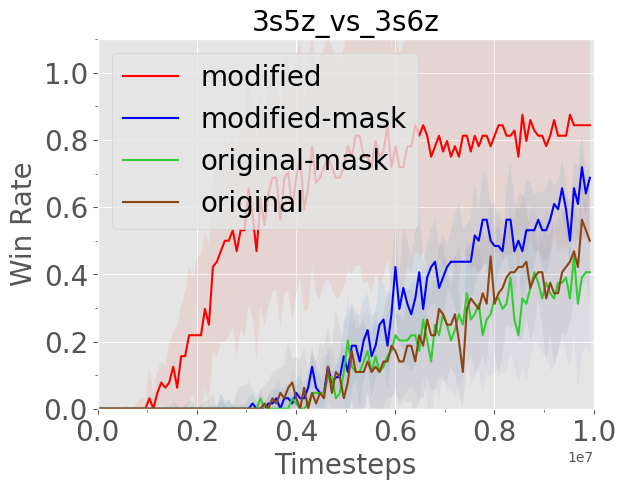
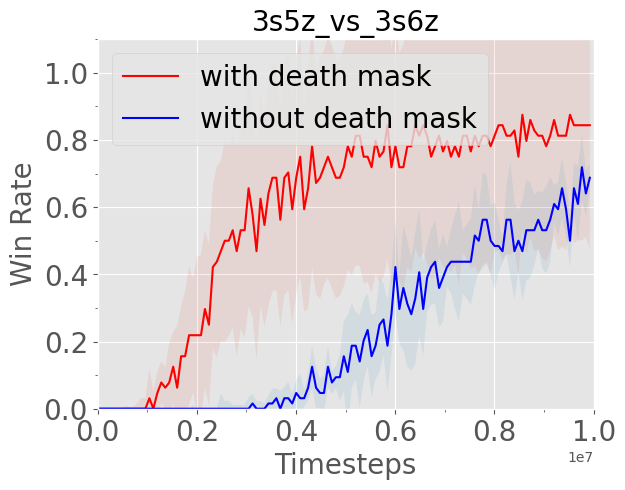
add agent id for smac

diff --git a/onpolicy/scripts/plot/plot_mpe.py b/onpolicy/scripts/plot/plot_mpe.py
@@ -18,13 +18,12 @@ plt.style.use('ggplot')
 
 map_names = ['spread','speaker_listener','reference']
 
-
 for map_name in map_names:
     plt.figure()
     ###################################PPO###################################
     exp_names = ['mappo', 'ippo'] 
     label_names = ["MAPPO", "IPPO"]
-    color_names = ['red','blue']
+    color_names = ['red','limegreen']
 
     save_dir = './mpe/'
     if not os.path.exists(save_dir):
@@ -43,20 +42,11 @@ for map_name in map_names:
         all_step = np.array(df[key_step])
         all_win_rate = np.array(df[key_win_rate])
 
-        print("original shape is ")
-        print(all_step.shape)
-        print(all_win_rate.shape)
-
         df_final = df[key_cols].dropna()
         step = df_final[key_step]
         win_rate = df_final[key_win_rate]
 
-        print("drop nan shape is")
-        print(np.array(step).shape)
-        print(np.array(win_rate).shape)
-
         max_step = step.max()['Step']
-        print("max step is {}".format(max_step))
 
         if max_step < 2.5e6:
             max_step = 2e6
@@ -65,13 +55,12 @@ for map_name in map_names:
         else:
             max_step = 20e6
 
-        print("final step is {}".format(max_step))
         max_steps.append(max_step)
 
         df_final = df_final.loc[df_final['Step'] <= max_step] 
 
-        x_step = np.array(df_final[key_step]).squeeze(-1)
-        y_seed = np.array(df_final[key_win_rate])
+        x_step = np.array(df_final[key_step]).squeeze(-1)[::2]
+        y_seed = np.array(df_final[key_win_rate])[::2]
 
         mean_seed = np.mean(y_seed, axis=1)
         std_seed = np.std(y_seed, axis=1)
@@ -82,92 +71,82 @@ for map_name in map_names:
             color=color_name,
             alpha=0.1)
 
-    print("########################QMIX##########################")
-    exp_name = 'maddpg'
-    label_name = "MADDPG"
-    color_name = 'saddlebrown'
-    print(exp_name)
-    data_dir =  './mpe/' + map_name + '/' + map_name + '_' + exp_name + '.csv'
+    print("########################MADDPG##########################")
+    exp_names = ['maddpg', 'qmix']
+    label_names = ["MADDPG", "QMix"]
+    color_names = ['blue','saddlebrown']
 
-    df = pandas.read_csv(data_dir)
+    for exp_name, label_name, color_name in zip(exp_names, label_names, color_names):
+        data_dir =  './mpe/' + map_name + '/' + map_name + '_' + exp_name + '.csv'
 
-    key_cols = [c for c in df.columns if 'MIN' not in c and 'MAX' not in c]
-    key_step = [n for n in key_cols if n == 'Step']
-    key_win_rate = [n for n in key_cols if n != 'Step']
+        df = pandas.read_csv(data_dir)
 
+        key_cols = [c for c in df.columns if 'MIN' not in c and 'MAX' not in c]
+        key_step = [n for n in key_cols if n == 'Step']
+        key_win_rate = [n for n in key_cols if n != 'Step']
 
-    one_run_max_step = []
-    qmix_x_step = []
-    qmix_y_seed = []
-    for k in key_win_rate:
-        print("one run original shape is ")
-        print(np.array(df[k]).shape)
+        one_run_max_step = []
+        qmix_x_step = []
+        qmix_y_seed = []
+        for k in key_win_rate:
 
-        df_final = df[[k, 'Step']].dropna()
-        step = df_final[key_step]
-        win_rate = df_final[k]
-        
-        print("one run drop nan shape is")
-        print(np.array(step).shape)
-        print(np.array(win_rate).shape)
+            df_final = df[[k, 'Step']].dropna()
+            step = df_final[key_step]
+            win_rate = df_final[k]
 
-        max_step = step.max()['Step']
-        print("one run max step is {}".format(max_step))
+            max_step = step.max()['Step']
 
-        if max_step < 2.5e6:
-            max_step = 2e6
-        elif max_step < 4e6:
-            max_step = 3e6
-        else:
-            max_step = 20e6
-        
-        one_run_max_step.append(max_step)
-        print("final step is {}".format(max_step))
+            if max_step < 2.5e6:
+                max_step = 2e6
+            elif max_step < 4e6:
+                max_step = 3e6
+            else:
+                max_step = 20e6
+            
+            one_run_max_step.append(max_step)
+            df_final = df_final.loc[df_final['Step'] <= max_step] 
+            qmix_x_step.append(np.array(df_final[key_step]).squeeze(-1))
+            qmix_y_seed.append(np.array(df_final[k]))
+        # pick max qmix step
+        qmix_max_step = np.min(one_run_max_step)
+        max_steps.append(qmix_max_step)
 
-        df_final = df_final.loc[df_final['Step'] <= max_step] 
-        qmix_x_step.append(np.array(df_final[key_step]).squeeze(-1))
-        qmix_y_seed.append(np.array(df_final[k]))
-        print("data shape is {}".format(np.array(df_final[k]).shape))
+        # adapt sample frequency
+        sample_qmix_s_step = []
+        sample_qmix_y_seed = []
+        final_max_length = []
+        for x, y in zip(qmix_x_step, qmix_y_seed):
+            eval_interval = x[10] - x[9]
+            print(eval_interval)
+            if eval_interval == 1000:
+                final_max_length.append(len(x[::32]))
+                sample_qmix_s_step.append(x[::32])
+                sample_qmix_y_seed.append(y[::32])
+            elif eval_interval == 3200:
+                final_max_length.append(len(x[::10]))
+                sample_qmix_s_step.append(x[::10])
+                sample_qmix_y_seed.append(y[::10])
 
-    # pick max qmix step
-    qmix_max_step = np.min(one_run_max_step)
-    max_steps.append(qmix_max_step)
+        # truncate numpy
+        max_common_length = np.min(final_max_length)
+        print("max common qmix length is {}".format(max_common_length))
+        final_qmix_x_step = []
+        final_qmix_y_seed = []
+        for x, y in zip(sample_qmix_s_step, sample_qmix_y_seed):
+            final_qmix_x_step.append(x[:max_common_length])
+            final_qmix_y_seed.append(y[:max_common_length])
 
-    # adapt sample frequency
-    sample_qmix_s_step = []
-    sample_qmix_y_seed = []
-    final_max_length = []
-    for x, y in zip(qmix_x_step, qmix_y_seed):
-        eval_interval = x[1] - x[0]
-        if eval_interval == 1000:
-            final_max_length.append(len(x[::16]))
-            sample_qmix_s_step.append(x[::16])
-            sample_qmix_y_seed.append(y[::16])
-        elif eval_interval == 3200:
-            final_max_length.append(len(x[::5]))
-            sample_qmix_s_step.append(x[::5])
-            sample_qmix_y_seed.append(y[::5])
+        x_step = np.mean(final_qmix_x_step, axis=0)
+        y_seed = np.array(final_qmix_y_seed)
 
-    # truncate numpy
-    max_common_length = np.min(final_max_length)
-    print("max common qmix length is {}".format(max_common_length))
-    final_qmix_x_step = []
-    final_qmix_y_seed = []
-    for x, y in zip(sample_qmix_s_step, sample_qmix_y_seed):
-        final_qmix_x_step.append(x[:max_common_length])
-        final_qmix_y_seed.append(y[:max_common_length])
-
-    x_step = np.mean(final_qmix_x_step, axis=0)
-    y_seed = np.array(final_qmix_y_seed)
-
-    mean_seed = np.mean(y_seed, axis=0)
-    std_seed = np.std(y_seed, axis=0)
-    plt.plot(x_step, mean_seed, label=label_name, color=color_name)
-    plt.fill_between(x_step,
-        mean_seed - std_seed,
-        mean_seed + std_seed,
-        color=color_name,
-        alpha=0.1)
+        mean_seed = np.mean(y_seed, axis=0)
+        std_seed = np.std(y_seed, axis=0)
+        plt.plot(x_step, mean_seed, label=label_name, color=color_name)
+        plt.fill_between(x_step,
+            mean_seed - std_seed,
+            mean_seed + std_seed,
+            color=color_name,
+            alpha=0.1)
     
     plt.tick_params(axis='both',which='major') 
     final_max_step = np.min(max_steps)
@@ -183,7 +162,7 @@ for map_name in map_names:
         x_minor_Locator = MultipleLocator(int(final_max_step/8)) 
         y_major_locator = MultipleLocator(20)
         y_minor_Locator = MultipleLocator(5)
-        plt.ylim(-80, -5)
+        plt.ylim(-100, -5)
     else:
         x_major_locator = MultipleLocator(int(final_max_step/4))
         x_minor_Locator = MultipleLocator(int(final_max_step/4)) 

diff --git a/onpolicy/scripts/plot/plot_winrate.py b/onpolicy/scripts/plot/plot_winrate.py
@@ -90,7 +90,7 @@ for map_name in map_names:
             alpha=0.1)
     
     exp_name = 'final_qmix'
-    label_name = "QMIX"
+    label_name = "QMix"
     color_name = 'saddlebrown'
     data_dir =  './' + map_name + '/' + map_name + '_' + exp_name + '.csv'
 
@@ -131,9 +131,6 @@ for map_name in map_names:
         else:
             max_step = 10e6
 
-        # if max_step == 2e6 and map_name in ["6h_vs_8z","MMM"]:
-        #     continue
-        
         one_run_max_step.append(max_step)
         # print("final step is {}".format(max_step))
 
@@ -154,9 +151,10 @@ for map_name in map_names:
         eval_interval = x[10] - x[9]
         if eval_interval - 10000 < 5000: # eval_interval = 10000
             print("warning: better not to use mixed data, try to one eval_interval")
-            print(map_name)
-            print(eval_interval)
-            continue
+            if map_name not in ["25m","27m_vs_30m","bane_vs_bane"]:
+                print(map_name)
+                print(eval_interval)
+                continue
             final_max_length.append(len(x[::8]))
             sample_qmix_s_step.append(x[::8])
             sample_qmix_y_seed.append(y[::8])
@@ -213,10 +211,10 @@ for map_name in map_names:
     #ax.xaxis.grid(True, which='minor')
     plt.xlim(0, final_max_step)
     plt.ylim([0, 1.1])
-    plt.xticks(fontsize=15)
-    plt.yticks(fontsize=15)
-    plt.xlabel('Timesteps', fontsize=15)
-    plt.ylabel('Win Rate', fontsize=15)
-    plt.legend(loc='best', numpoints=1, fancybox=True, fontsize=15)
-
+    plt.xticks(fontsize=20)
+    plt.yticks(fontsize=20)
+    plt.xlabel('Timesteps', fontsize=20)
+    plt.ylabel('Win Rate', fontsize=20)
+    plt.legend(loc='best', numpoints=1, fancybox=True, fontsize=20)
+    plt.title(map_name,fontsize=20)
     plt.savefig(save_dir + map_name + "_win_rate.png", bbox_inches="tight")

diff --git a/onpolicy/scripts/plot/plot_global_state_2figures.py b/onpolicy/scripts/plot/plot_global_state_2figures.py
@@ -23,8 +23,9 @@ map_names = ['MMM2','6h_vs_8z','corridor','10m_vs_11m','3s5z_vs_3s6z','8m_vs_9m'
 for map_name in map_names:
     plt.figure()
     ###################################PPO###################################
-    exp_names = ['final_mappo', 'mappo_nomustalive', 'final_mappo_original', 'mappo_original_mustalive'] 
-    label_names = ["modified", "modified-mask", "original-mask", "original"]
+    #exp_names = ['final_mappo', 'mappo_nomustalive', 'final_mappo_original', 'mappo_original_mustalive'] 
+    exp_names = ['final_mappo', 'mappo_nomustalive']
+    label_names = ["with death mask", "without death mask"]
     color_names = ['red','blue','limegreen','saddlebrown']
 
     save_dir = './global_state/'
@@ -119,7 +120,7 @@ for map_name in map_names:
     plt.figure()
     ###################################PPO###################################
     exp_names = ['final_mappo', 'mappo_original_mustalive', 'mappo_catobs'] 
-    label_names = ["modified", "original", "concat"]
+    label_names = ["agent-specific", "original", "concated"]
     color_names = ['red','blue','limegreen']
 
     save_dir = './global_state/'

diff --git a/onpolicy/envs/starcraft2/StarCraft2_Env.py b/onpolicy/envs/starcraft2/StarCraft2_Env.py
@@ -86,6 +86,7 @@ class StarCraft2Env(MultiAgentEnv):
         state_terrain_height=False,
         state_last_action=True,
         state_timestep_number=False,
+        state_agent_id=True,
         reward_sparse=False,
         reward_only_positive=True,
         reward_death_value=10,
@@ -235,6 +236,7 @@ class StarCraft2Env(MultiAgentEnv):
         self.state_terrain_height = state_terrain_height
         self.state_last_action = state_last_action
         self.state_timestep_number = state_timestep_number
+        self.state_agent_id = state_agent_id
         if self.obs_all_health:
             self.obs_own_health = True
         self.n_obs_pathing = 8
@@ -1499,7 +1501,7 @@ class StarCraft2Env(MultiAgentEnv):
                                 own_feats.flatten()))
 
         # Agent id features
-        if self.obs_agent_id:
+        if self.state_agent_id:
             agent_id_feats[agent_id] = 1.
             state = np.append(state, agent_id_feats.flatten())
 

diff --git a/onpolicy/scripts/plot/cal_winrate.py b/onpolicy/scripts/plot/cal_winrate.py
@@ -189,6 +189,12 @@ for map_name in map_names:
 
     final_max_step = np.min(max_steps)
     print("final max step is {}".format(final_max_step))
+    if map_name in ["5m_vs_6m"]:
+        final_max_step = 25e6
+    
+    if map_name == "27m_vs_30m":
+        final_max_step = 7e6
+
     all_final_max_step.append(final_max_step)
 
 #################################CAL#####################################
@@ -197,6 +203,7 @@ results = []
 for map_name, final_max_step in zip(map_names, all_final_max_step):
     print("########################MAP##########################")
     print(map_name)
+    print(final_max_step)
     ###################################PPO###################################
     exp_names = ['final_mappo', 'final_ippo']
 

diff --git a/onpolicy/scripts/plot/plot_mini_batch_size.py b/onpolicy/scripts/plot/plot_mini_batch_size.py
@@ -22,7 +22,7 @@ for map_name in map_names:
     plt.figure()
     ###################################PPO###################################
     exp_names = ['mappo_mini1', 'mappo_mini2', 'mappo_mini4'] 
-    label_names = ["1.0 mini-batch", "0.5 mini-batch", "0.25 mini-batch"]
+    label_names = ["1 mini-batch", "2 mini-batches", "4 mini-batches"]
     color_names = ['red','blue','limegreen']
 
     save_dir = './mini_batch_size/'

diff --git a/onpolicy/scripts/plot/plot_mpe_mini_batch_size.py b/onpolicy/scripts/plot/plot_mpe_mini_batch_size.py
@@ -22,7 +22,7 @@ for map_name in map_names:
     plt.figure()
     ###################################PPO###################################
     exp_names = ['mini1', 'mini2', 'mini4'] 
-    label_names = ["1.0 mini-batch", "0.5 mini-batch", "0.25 mini-batch"]
+    label_names = ["1 mini-batch", "2 mini-batches", "4 mini-batches"]
     color_names = ['red','blue','limegreen']
 
     save_dir = './mini_batch_size/'

diff --git a/onpolicy/scripts/plot/plot_rode.py b/onpolicy/scripts/plot/plot_rode.py
@@ -246,8 +246,8 @@ if __name__ == "__main__":
         if map_name in ["3s5z"]:
             final_max_step = 5e6
 
-        if map_name in ["1c3s5z","2s3z","2s_vs_1sc"]:
-            final_max_step = 2e6
+        # if map_name in ["1c3s5z","2s3z","2s_vs_1sc"]:
+        #     final_max_step = 2e6
 
         
 
